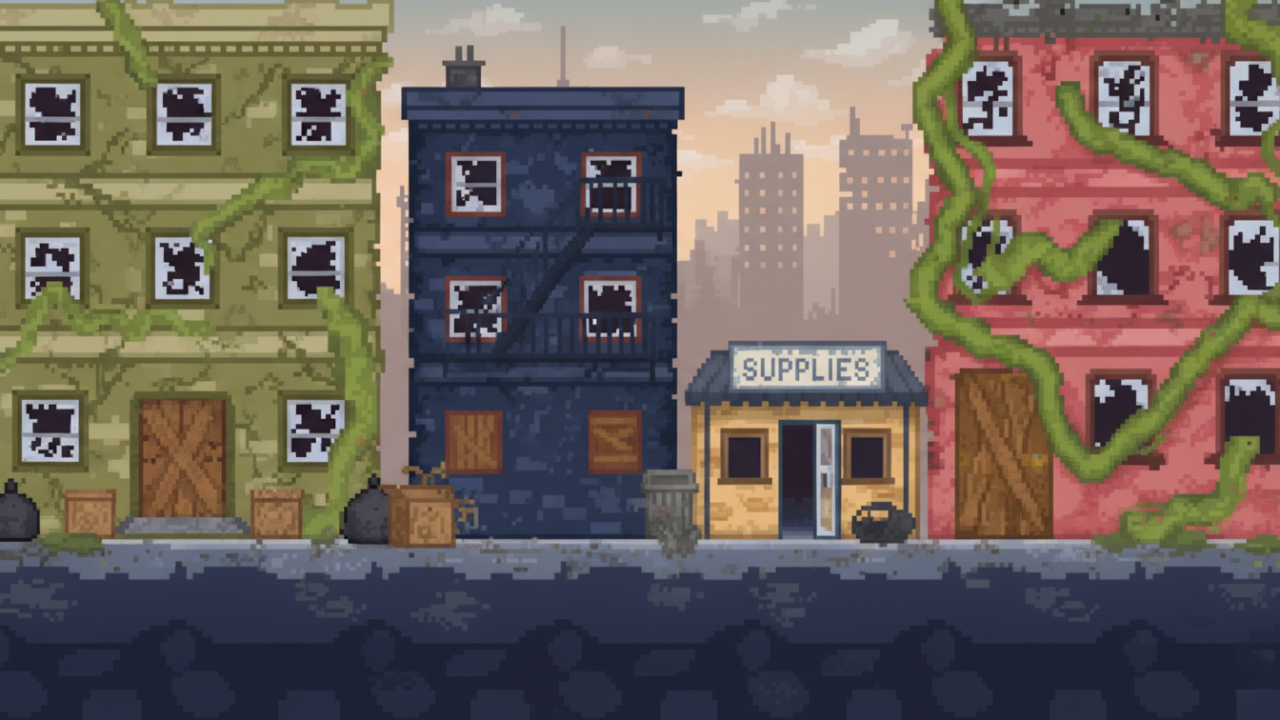
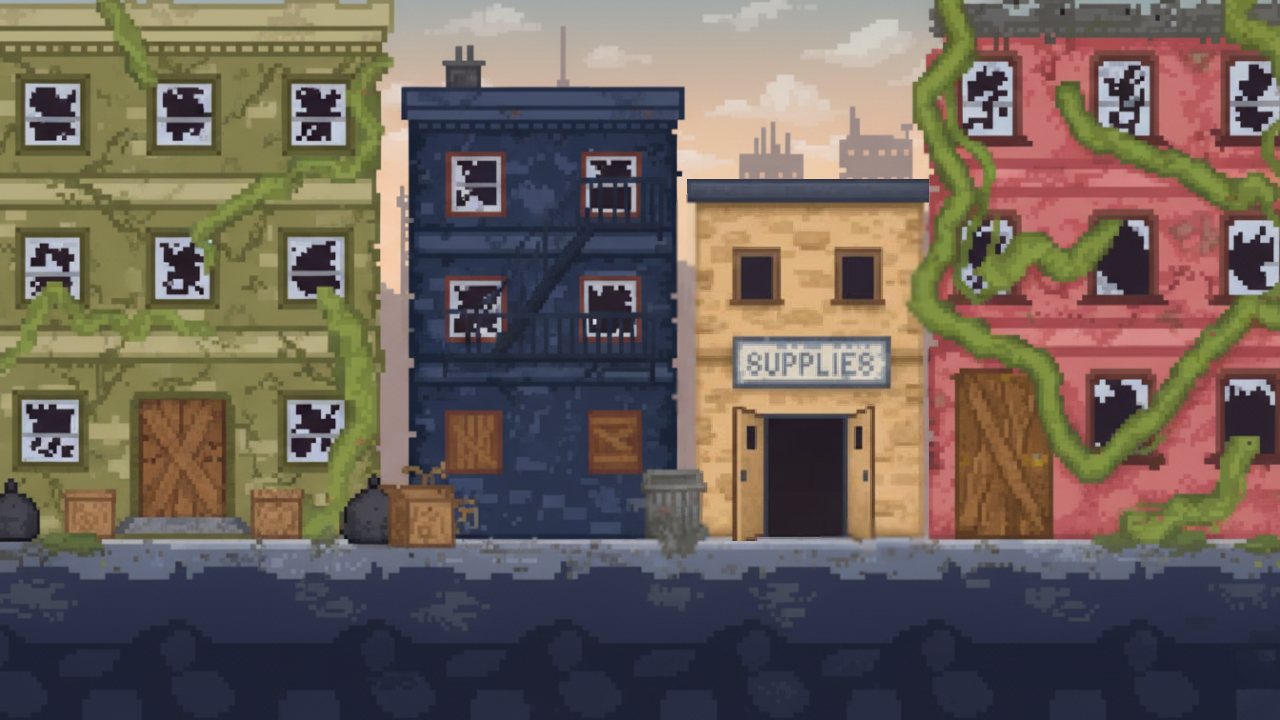
atualizando as imagens para portas maiores e mudando os valores para exibir o texto

Changed region(s): [[0.5312, 0.2444, 0.75, 0.7639]]

diff --git a/conteúdo/Deadlylight/main.py b/conteúdo/Deadlylight/main.py
@@ -56,10 +56,10 @@ def iniciar_jogo():
             if 925 <= player.rect.left <= 1070:
                 hud.exibe_entrar(tela)
         elif mapa.indiceAtual == 5:
-            if 635 <= player.rect.left <= 760:
+            if 620 <= player.rect.left <= 780:
                 hud.exibe_entrar(tela)
         elif mapa.indiceAtual == 7:
-            if 340 <= player.rect.left <= 460:
+            if 330 <= player.rect.left <= 465:
                 hud.exibe_entrar(tela)
 
         if player.rect.right > larguraTela:
